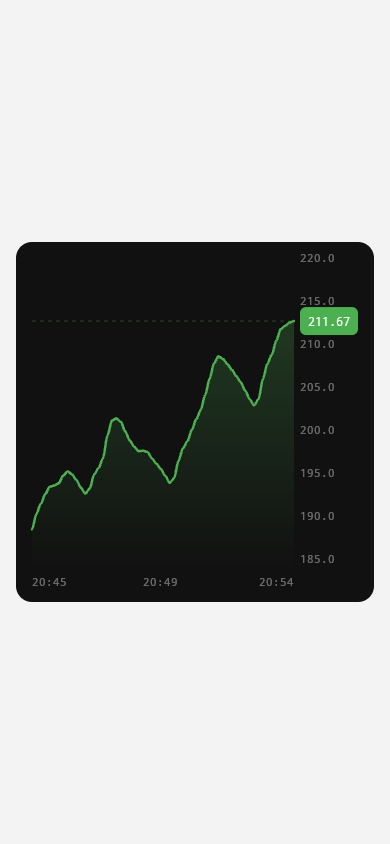
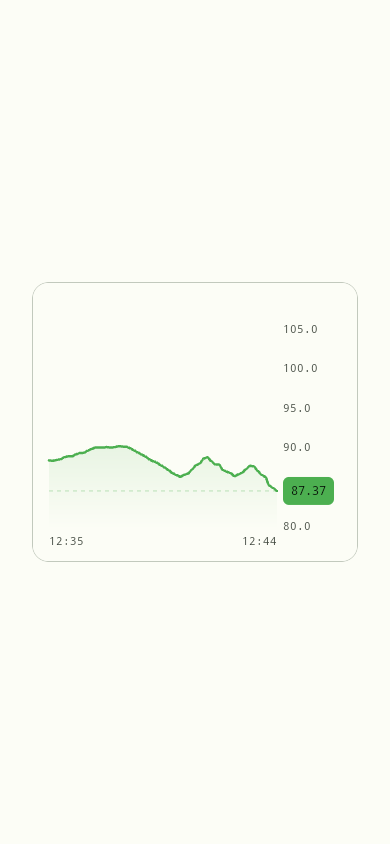
docs: describe the theme-driven chart and retake the screenshots
Claude-Session: https://claude.ai/code/session_018xTsJQBTiLfieqJekJ23K3

diff --git a/README.md b/README.md
@@ -12,15 +12,21 @@ live feed: a short loading state, then a volatile random walk with a new value e
 - **Easing:** the line, the value range and the badge ease toward each new value (`LerpSpeed`).
 - **Idle when settled:** the control draws on `CompositionTarget.Rendering` only while the line moves, and lets go of
   it once the line settles.
-- **One colour:** `LivelineTheme` sets the whole palette from one colour, in dark or light.
+- **The app's theme:** the chart's default style binds every colour to a palette role (`PrimaryBrush` for the line and
+  badge, `SurfaceBrush`, `OutlineVariantBrush`, `OnSurfaceVariantBrush`, `OnPrimaryBrush`), so it follows Light, Dark and
+  any palette (a seed, an override, Studio's Themes tab) with no wiring. Any brush can be set on the chart to override it.
 
 The data is simulated on the page; nothing leaves the device.
 
 ## Built with
 
 - Uno Platform single project, with Uno.Sdk pinned in `global.json`: desktop and WebAssembly.
-- SkiaSharp on `SKCanvasElement` (the `Skia` feature), Material and Toolkit.
-- The control is the `Liveline/` folder of the project; the page in `MainPage.xaml` hosts it.
+- SkiaSharp on `SKCanvasElement` (the `Skia` feature).
+- Material through `MaterialToolkitTheme`, with the brand as one seed (`PrimarySeed` in `App.xaml`): every colour, corner
+  and margin on screen comes from Uno.Themes (palette roles, `Radius*` and `Space*` tokens).
+- `utu:Responsive` sets the card's height for phone and desktop.
+- The control is the `Liveline/` folder of the project, with its default style in `Themes/Generic.xaml`; the page in
+  `MainPage.xaml` hosts it.
 
 ## Try it
 
@@ -45,10 +51,19 @@ In Visual Studio, Rider or VS Code, open `Liveline.sln`.
 ```
 
 ```csharp
-Chart.Theme = new LivelineTheme { Color = "#4CAF50", IsDark = true };
 Chart.Data = points;   // IList<LivelinePoint>: time and value
 Chart.Value = latest;  // the value the badge and the live dot show
 ```
+
+The colours need no code: they come from the app's Material or Simple theme. To give one chart other colours, set its
+brushes to other roles, in pairs:
+
+```xml
+<liveline:LivelineChart LineBrush="{ThemeResource TertiaryBrush}" BadgeTextBrush="{ThemeResource OnTertiaryBrush}" />
+```
+
+In an app project, merge the control's default style in `App.xaml`
+(`<ResourceDictionary Source="ms-appx:///Themes/Generic.xaml" />`); a control library loads it by itself.
 
 ## Layout
 
@@ -56,4 +71,5 @@ Chart.Value = latest;  // the value the badge and the live dot show
 |---|---|
 | `Liveline.Demo/MainPage.xaml(.cs)` | the page and its simulated feed |
 | `Liveline.Demo/Liveline/` | the control: `LivelineChart`, its `SKCanvasElement` canvas, the renderers, the easing engine, the models |
+| `Liveline.Demo/Themes/Generic.xaml` | the chart's default style: its template and its theme brushes |
 | `.studiolive/`, `uno-sample.json` | the Studio info files, icon and screenshots |
